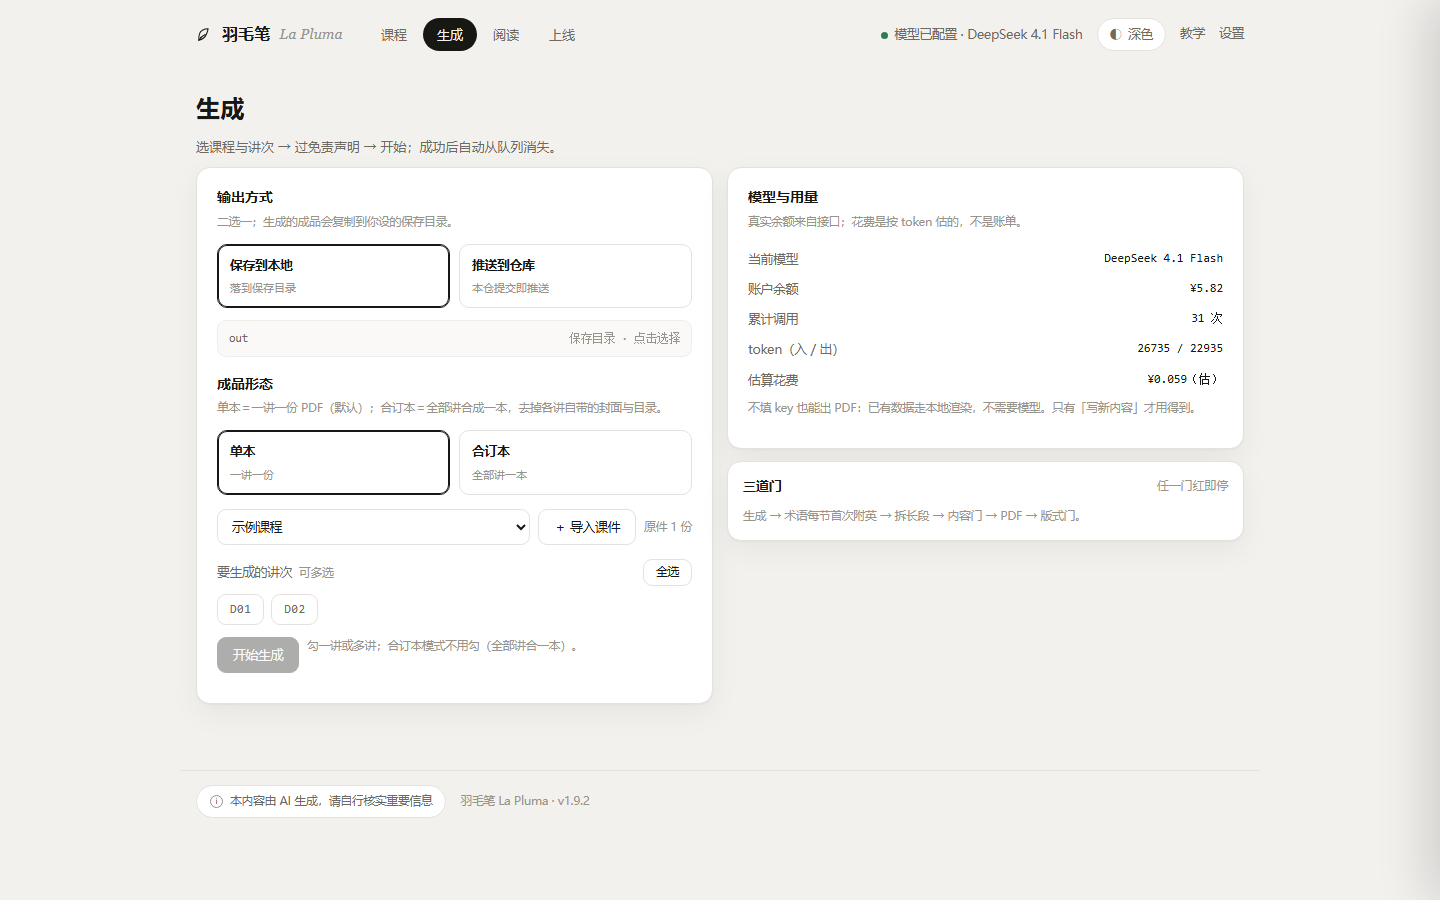
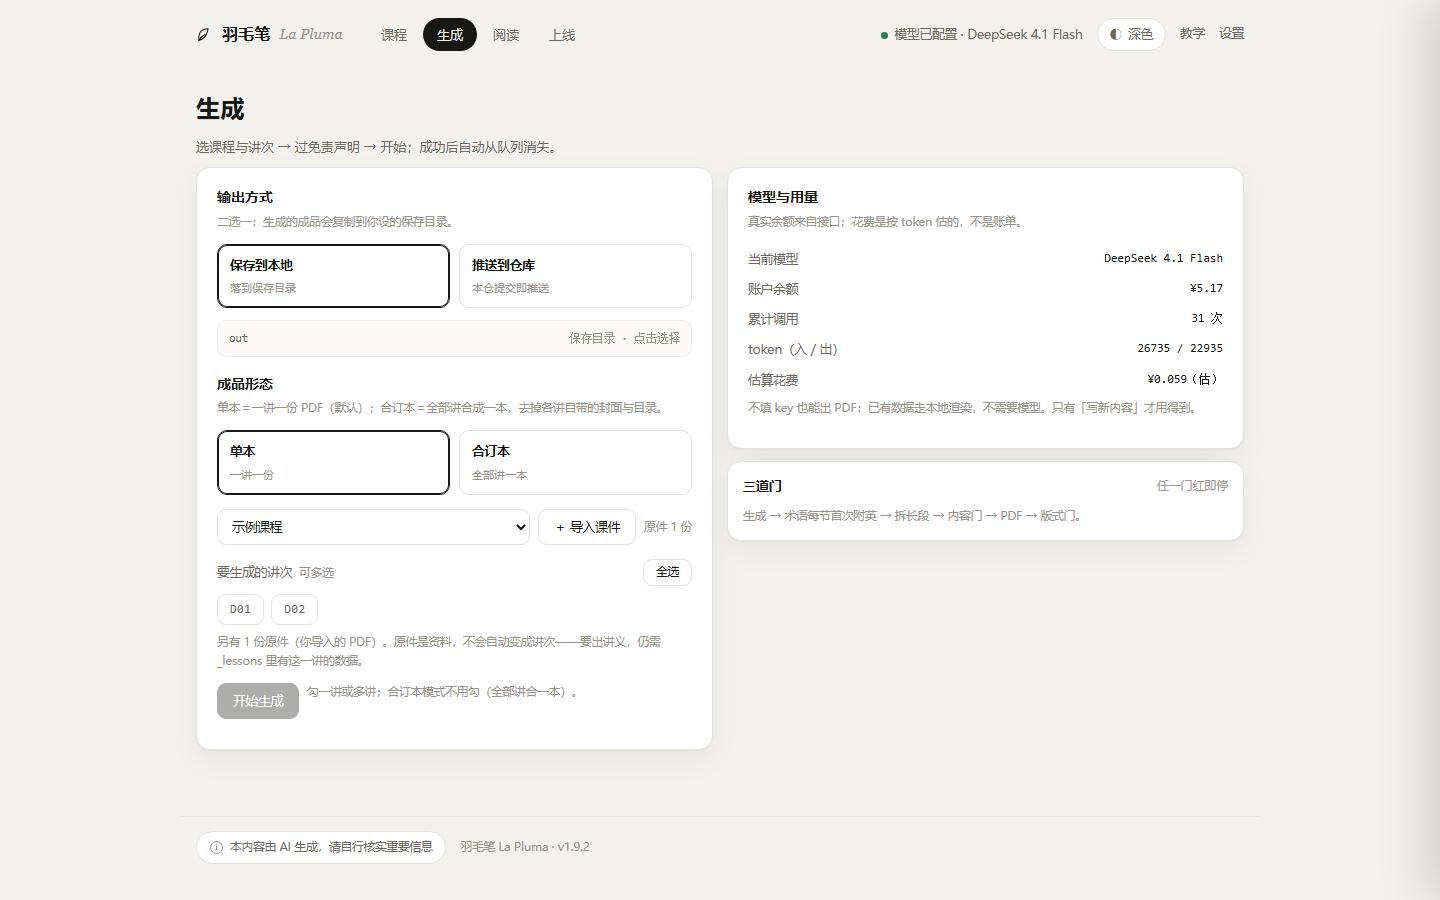
feat(import): 拖拽跳转加边界（弹窗/生成中/阅读/会话不跳）；讲次区说明原件不变讲次

Changed region(s): [[0.125, 0.6844, 0.5, 0.8089], [0.1562, 0.9333, 0.4062, 0.9644], [0.1562, 0.8711, 0.4062, 0.9022]]

diff --git a/ui/index.html b/ui/index.html
@@ -506,6 +506,7 @@ footer{max-width:1080px;margin:26px auto 0;padding:0 16px;display:flex;align-ite
           <button class="btn ghost" id="lsnAll" style="padding:3px 12px;font-size:11.5px">全选</button>
         </div>
         <div class="lens lsn" id="lessonPick"></div>
+        <p class="hint" id="lsnOrig" style="display:none;border:0;padding:0;margin:8px 0 0"></p>
         <div class="tools" style="margin-top:12px">
           <button class="btn" id="btnGen">开始生成</button>
           <span class="hint" id="genHint" style="border:0;margin:0;padding:0">勾一讲或多讲；合订本模式不用勾（全部讲合一本）。</span>
@@ -1066,12 +1067,31 @@ $('#drAsk').onclick = () => { const c=DRAGGED; closeDrawer(); openChat(c); };
    两个入口共用一个后端：按钮→本机文件对话框（后端直接拷，不走浏览器，大 PDF 也快）；
    拖拽→浏览器读成 base64 再传（平板/手机那边也能用）。存到 <课程>/00_原件\。 */
 function currentCourse(){
-  // 2026-11-17：导入入口搬到「生成」页后，以那页选中的课程为准
-  const sel = $('#courseSel');
-  if(sel && sel.value) return sel.value;
-  if(DRAGGED && DRAGGED.code) return DRAGGED.code;
+  // 2026-11-17：导入去哪一门，按「人现在正在看什么」优先，而不是默认课程
+  if(DRAGGED && DRAGGED.code) return DRAGGED.code;       // 抽屉开着：放进正在看的那门
+  if(PAGE === 'read' && RD.code) return RD.code;         // 正在读：放进读的那门
+  if(PAGE === 'chat' && CHAT.code) return CHAT.code;     // 会话中：放进问的那门
+  const sel = $('#courseSel'); if(sel && sel.value) return sel.value;
   if(B.default) return B.default;
   return ((B.courses||[])[0] || {}).code || '';
+}
+/* 2026-11-17 用户：「检查什么时候拖动是不可跳转到生成以免冲突」——
+   下面这几种时候只导入、不跳页，跳过去会打断当前动作：
+     ① 弹窗开着（免责声明 / 设置 / 首次配置）
+     ② 正在生成（队列里有 run / wait）—— 跳到生成页会让人以为新一批已经开跑
+     ③ 正在阅读（page=read）—— 读到一半被拽走
+     ④ 正在会话（page=chat）—— 问答进行到一半 */
+function canJumpToGenerate(){
+  const veil = $('#veil');
+  if(veil && veil.classList.contains('on')) return false;
+  if((Q||[]).some(x => x.st === 'run' || x.st === 'wait')) return false;
+  if(PAGE === 'read' || PAGE === 'chat') return false;
+  return true;
+}
+function whereAmI(){
+  const veil = $('#veil');
+  if(veil && veil.classList.contains('on')) return '弹窗里';
+  return ({read:'阅读页', chat:'会话页', host:'上线页', courses:'课程页'})[PAGE] || '别的页';
 }
 function updateImpHint(){
   const h = $('#impHint'); if(!h) return;
@@ -1083,14 +1103,17 @@ async function afterImport(j, code){
     if(!j.canceled) toast('没导进来：' + (j.error || (j.skipped||[]).join('；') || '未知原因'));
     return;
   }
-  toast('已导入 ' + (j.added||[]).length + ' 份 → ' + (j.dir||''));
-  if((j.skipped||[]).length) setTimeout(()=>toast('跳过：' + j.skipped.join('；')), 1600);
+  const jump = canJumpToGenerate();
   await boot();
-  // 2026-11-17 用户定：「不如直接拖动之后直接跳转到生成那」——导完就落到生成页，课程也选好
+  // 2026-11-17 用户定：「不如直接拖动之后直接跳转到生成那」
   const sel = $('#courseSel');
   if(sel && code){ sel.value = code; syncLessons(); }
-  showPage('generate');
   updateImpHint();
+  if(jump) showPage('generate');
+  let msg = '已导入 ' + (j.added||[]).length + ' 份 → ' + (j.dir||'');
+  if(!jump) msg += '（现在在' + whereAmI() + '，没有跳页）';
+  toast(msg);
+  if((j.skipped||[]).length) setTimeout(()=>toast('跳过：' + j.skipped.join('；')), 1600);
 }
 $('#btnImport').onclick = async () => {
   const code = currentCourse();
@@ -1162,6 +1185,16 @@ function syncLessons(){
   LESSON_SEL = new Set();
   $('#lessonPick').innerHTML = les.map(n=>`<button data-lsn="${esc(n)}">${esc(n)}</button>`).join('')
     || '<span class="hint" style="border:0;padding:0;margin:0">这一门没有可生成的数据（缺 `_lessons`）</span>';
+  // 2026-11-17 用户：「拖进去之后要生成的批次那并没有更新」——导入的是原件，不是讲次；
+  //   讲次只能来自 <课程>\_lessons\*.py。这里把差异当场写清，免得以为导入坏了。
+  const ogN = ((c && c.originals) || []).length;
+  const ogEl = $('#lsnOrig');
+  if(ogEl){
+    if(ogN){
+      ogEl.style.display = '';
+      ogEl.textContent = '另有 ' + ogN + ' 份原件（你导入的 PDF）。原件是资料，不会自动变成讲次——要出讲义，仍需 _lessons 里有这一讲的数据。';
+    } else { ogEl.style.display = 'none'; }
+  }
   $('#lessonPick').querySelectorAll('[data-lsn]').forEach(b=>b.onclick=()=>{
     const k = b.dataset.lsn;
     LESSON_SEL.has(k) ? LESSON_SEL.delete(k) : LESSON_SEL.add(k);

diff --git a/CHANGELOG.md b/CHANGELOG.md
@@ -8,6 +8,9 @@
 
 - **导入原件**（用户：「他怎么只有保存的地方，没让我能丢进去的地方」）：**入口在「生成」页**——课程下拉框旁边一个「＋ 导入课件」，并显示该课已有多少份原件；把 PDF / 图片**直接拖进窗口**也行。两种方式都存到 `<课程>\00_原件\`，原文件不动，重名自动加 `(2)`
 - **拖完直接落到生成页**（用户：「不如直接拖动之后直接跳转到生成那」）：导入成功后自动跳到「生成」页、课程也选好，不用再去找；抽屉里不再放导入按钮（第一版那行 UI 歪）
+- **四种时候拖拽只导入、不跳页**（用户：「检查什么时候拖动是不可跳转到生成以免冲突」）：① 有弹窗开着（免责声明 / 设置 / 首次配置）② 正在生成（队列里有 run / wait）③ 正在阅读页 ④ 正在会话页—— toast 会写明「现在在 X，没有跳页」
+- **导入去哪一门按上下文定**：抽屉开着 → 那门；正在读 → 读的那门；会话中 → 问的那门；否则看生成页选中的课
+- **原件不会自己变成讲次**（用户：「拖进去之后要生成的批次那并没有更新」）：讲次只能来自 `<课程>\_lessons\*.py`；生成页讲次区会直说「另有 N 份原件，不会自动变成讲次」（免得以为导入坏了）
 - **抽屉分两段**：上面「原件」（你导入的源课件，显大小），下面「成品」（生成出来的讲义，显页数），都可点开在软件里读
 - **拖拽走浏览器、选文件走本机**：拖拽把文件读成 base64 交给 `/api/import`（平板端也能用）；「＋ 导入课件」由后端弹系统文件对话框再直接复制（大 PDF 不经过浏览器），只接本机
 - **原件不入库**：`.gitignore` 加 `*/00_原件/*`——里面是真实课件，永远不该进公开仓
